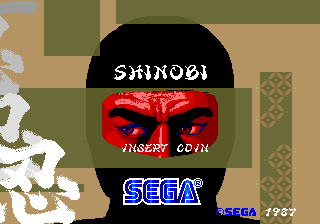
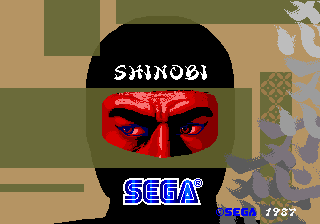
OBJ somewhat visible

diff --git a/ver/game/test.cpp b/ver/game/test.cpp
@@ -143,7 +143,7 @@ SDRAM::SDRAM(DUT& _dut) : dut(_dut) {
     printf("Read %d kBytes in bank1 for Char/Tiles\n", len>>10 );
     // Read OBJ
     len = firm_start-obj_start;
-    fin.seekg( obj_start+32, ios_base::beg );
+    //fin.seekg( obj_start+32, ios_base::beg );
     fin.read( banks[2], len );
     printf("Read %d kBytes in bank2 for objects\n", len>>10 );
     fin.close();
